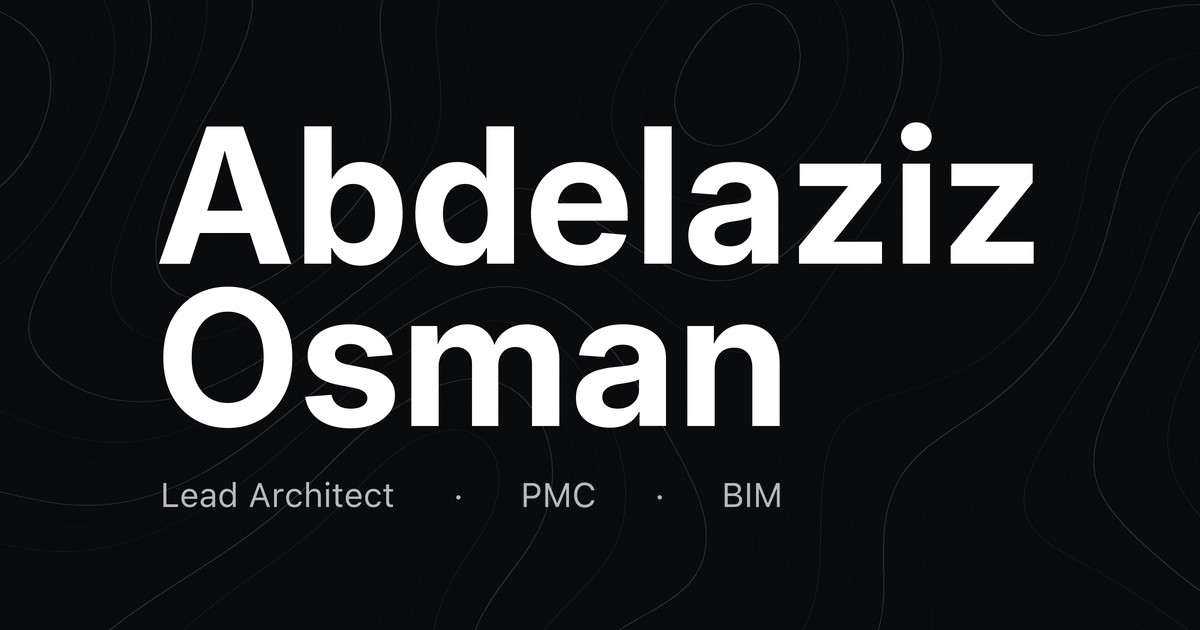
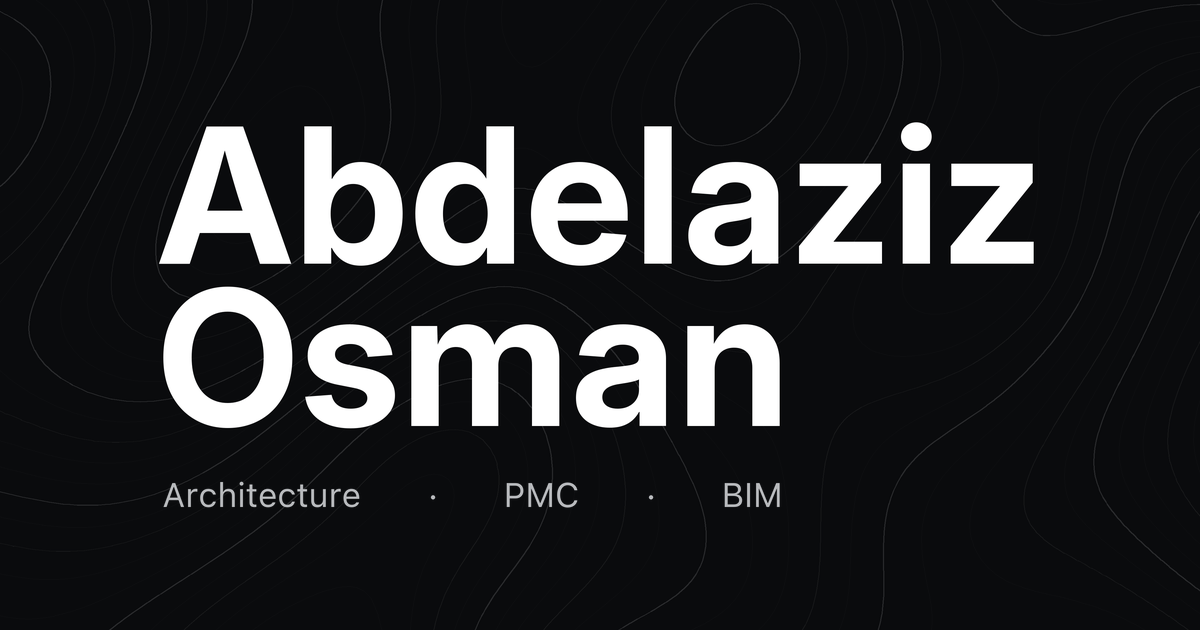
Update cover image to Architecture · PMC · BIM matching approved design

Changed region(s): [[0.1233, 0.754, 0.3392, 0.8143], [0.4008, 0.754, 0.4933, 0.8143]]

diff --git a/index.html b/index.html
@@ -4994,8 +4994,8 @@ html[dir="rtl"] .lang-toggle {
   <meta property="og:url" content="https://abdelazizothmaneg-alt.github.io/portfolio/">
   <meta property="og:site_name" content="Abdelaziz Osman">
   <meta property="og:image:secure_url" content="https://abdelazizothmaneg-alt.github.io/portfolio/assets/web/og-abdelaziz-osman-approved.png">
-  <meta property="og:image:alt" content="Abdelaziz Osman — Lead Architect · PMC · BIM on the portfolio topographic contour background">
-  <meta name="twitter:image:alt" content="Abdelaziz Osman — Lead Architect · PMC · BIM on the portfolio topographic contour background">
+  <meta property="og:image:alt" content="Abdelaziz Osman — Architecture · PMC · BIM on the portfolio topographic contour background">
+  <meta name="twitter:image:alt" content="Abdelaziz Osman — Architecture · PMC · BIM on the portfolio topographic contour background">
 </head>
 <body>
   <!-- Generative Topographic Contours Background -->

diff --git a/index-demo.html b/index-demo.html
@@ -5009,8 +5009,8 @@ html[dir="rtl"] .lang-toggle {
   <meta property="og:image:type" content="image/png">
   <meta property="og:image:width" content="1200">
   <meta property="og:image:height" content="630">
-  <meta property="og:image:alt" content="Abdelaziz Osman — Lead Architect · PMC · BIM on the portfolio topographic contour background">
-  <meta name="twitter:image:alt" content="Abdelaziz Osman — Lead Architect · PMC · BIM on the portfolio topographic contour background">
+  <meta property="og:image:alt" content="Abdelaziz Osman — Architecture · PMC · BIM on the portfolio topographic contour background">
+  <meta name="twitter:image:alt" content="Abdelaziz Osman — Architecture · PMC · BIM on the portfolio topographic contour background">
 </head>
 <body>
   <!-- Generative Topographic Contours Background -->
